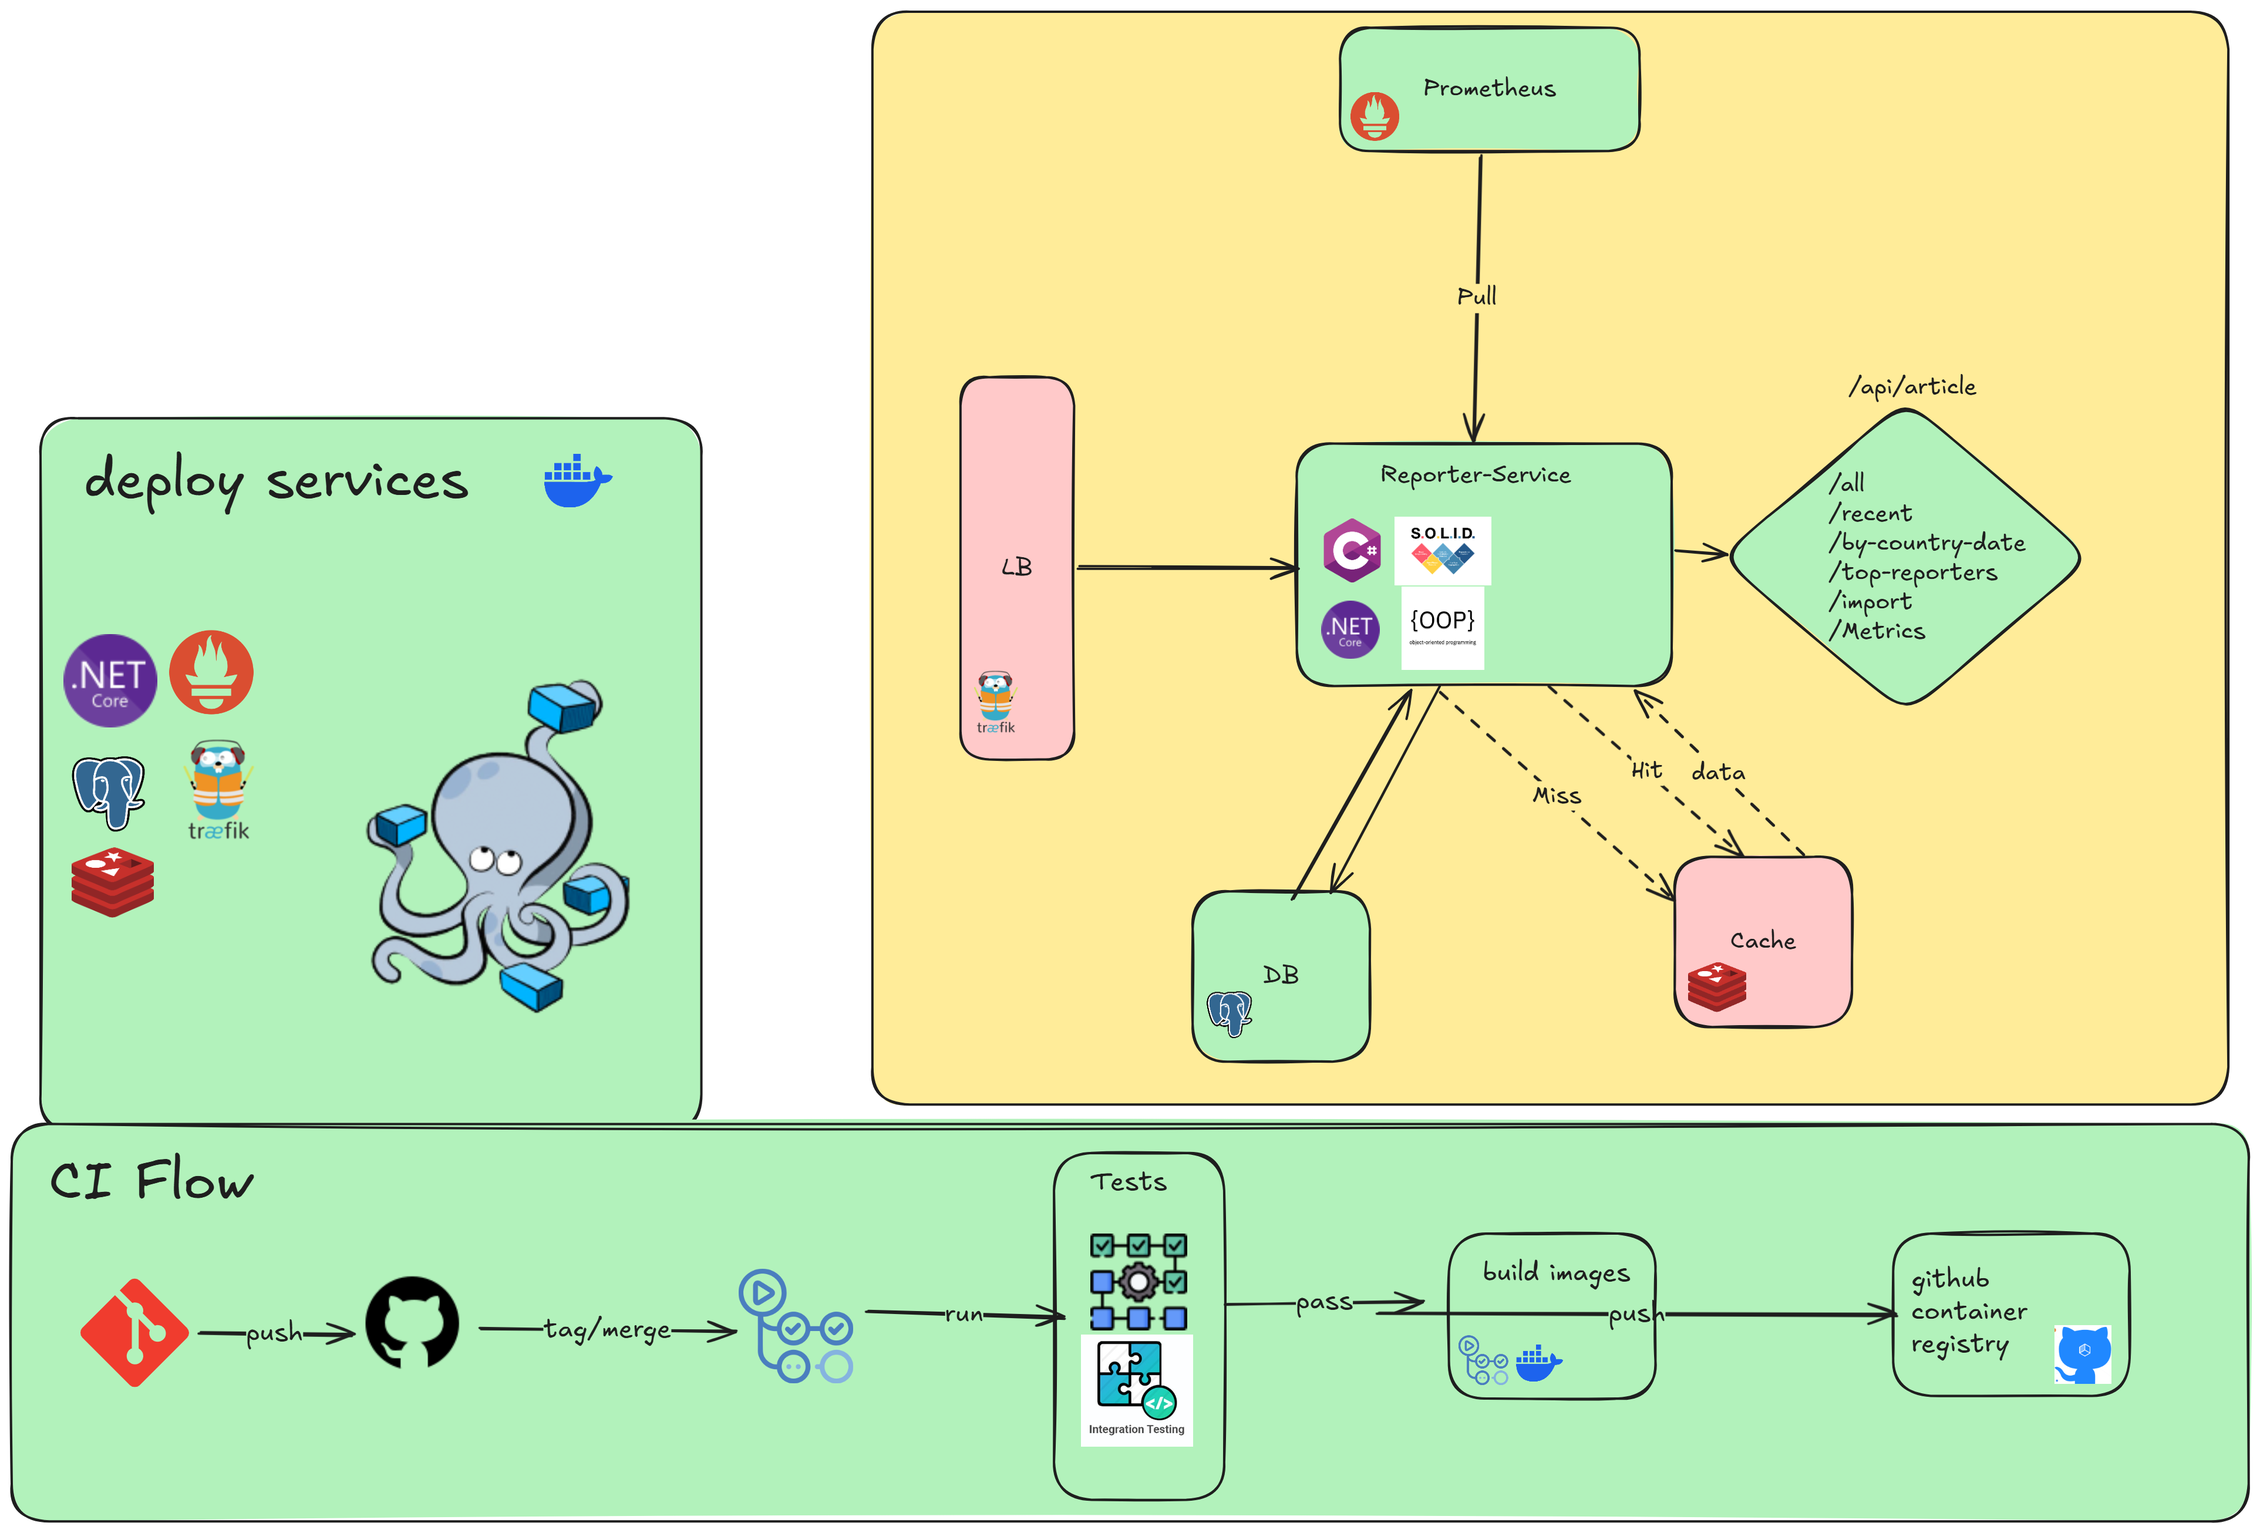
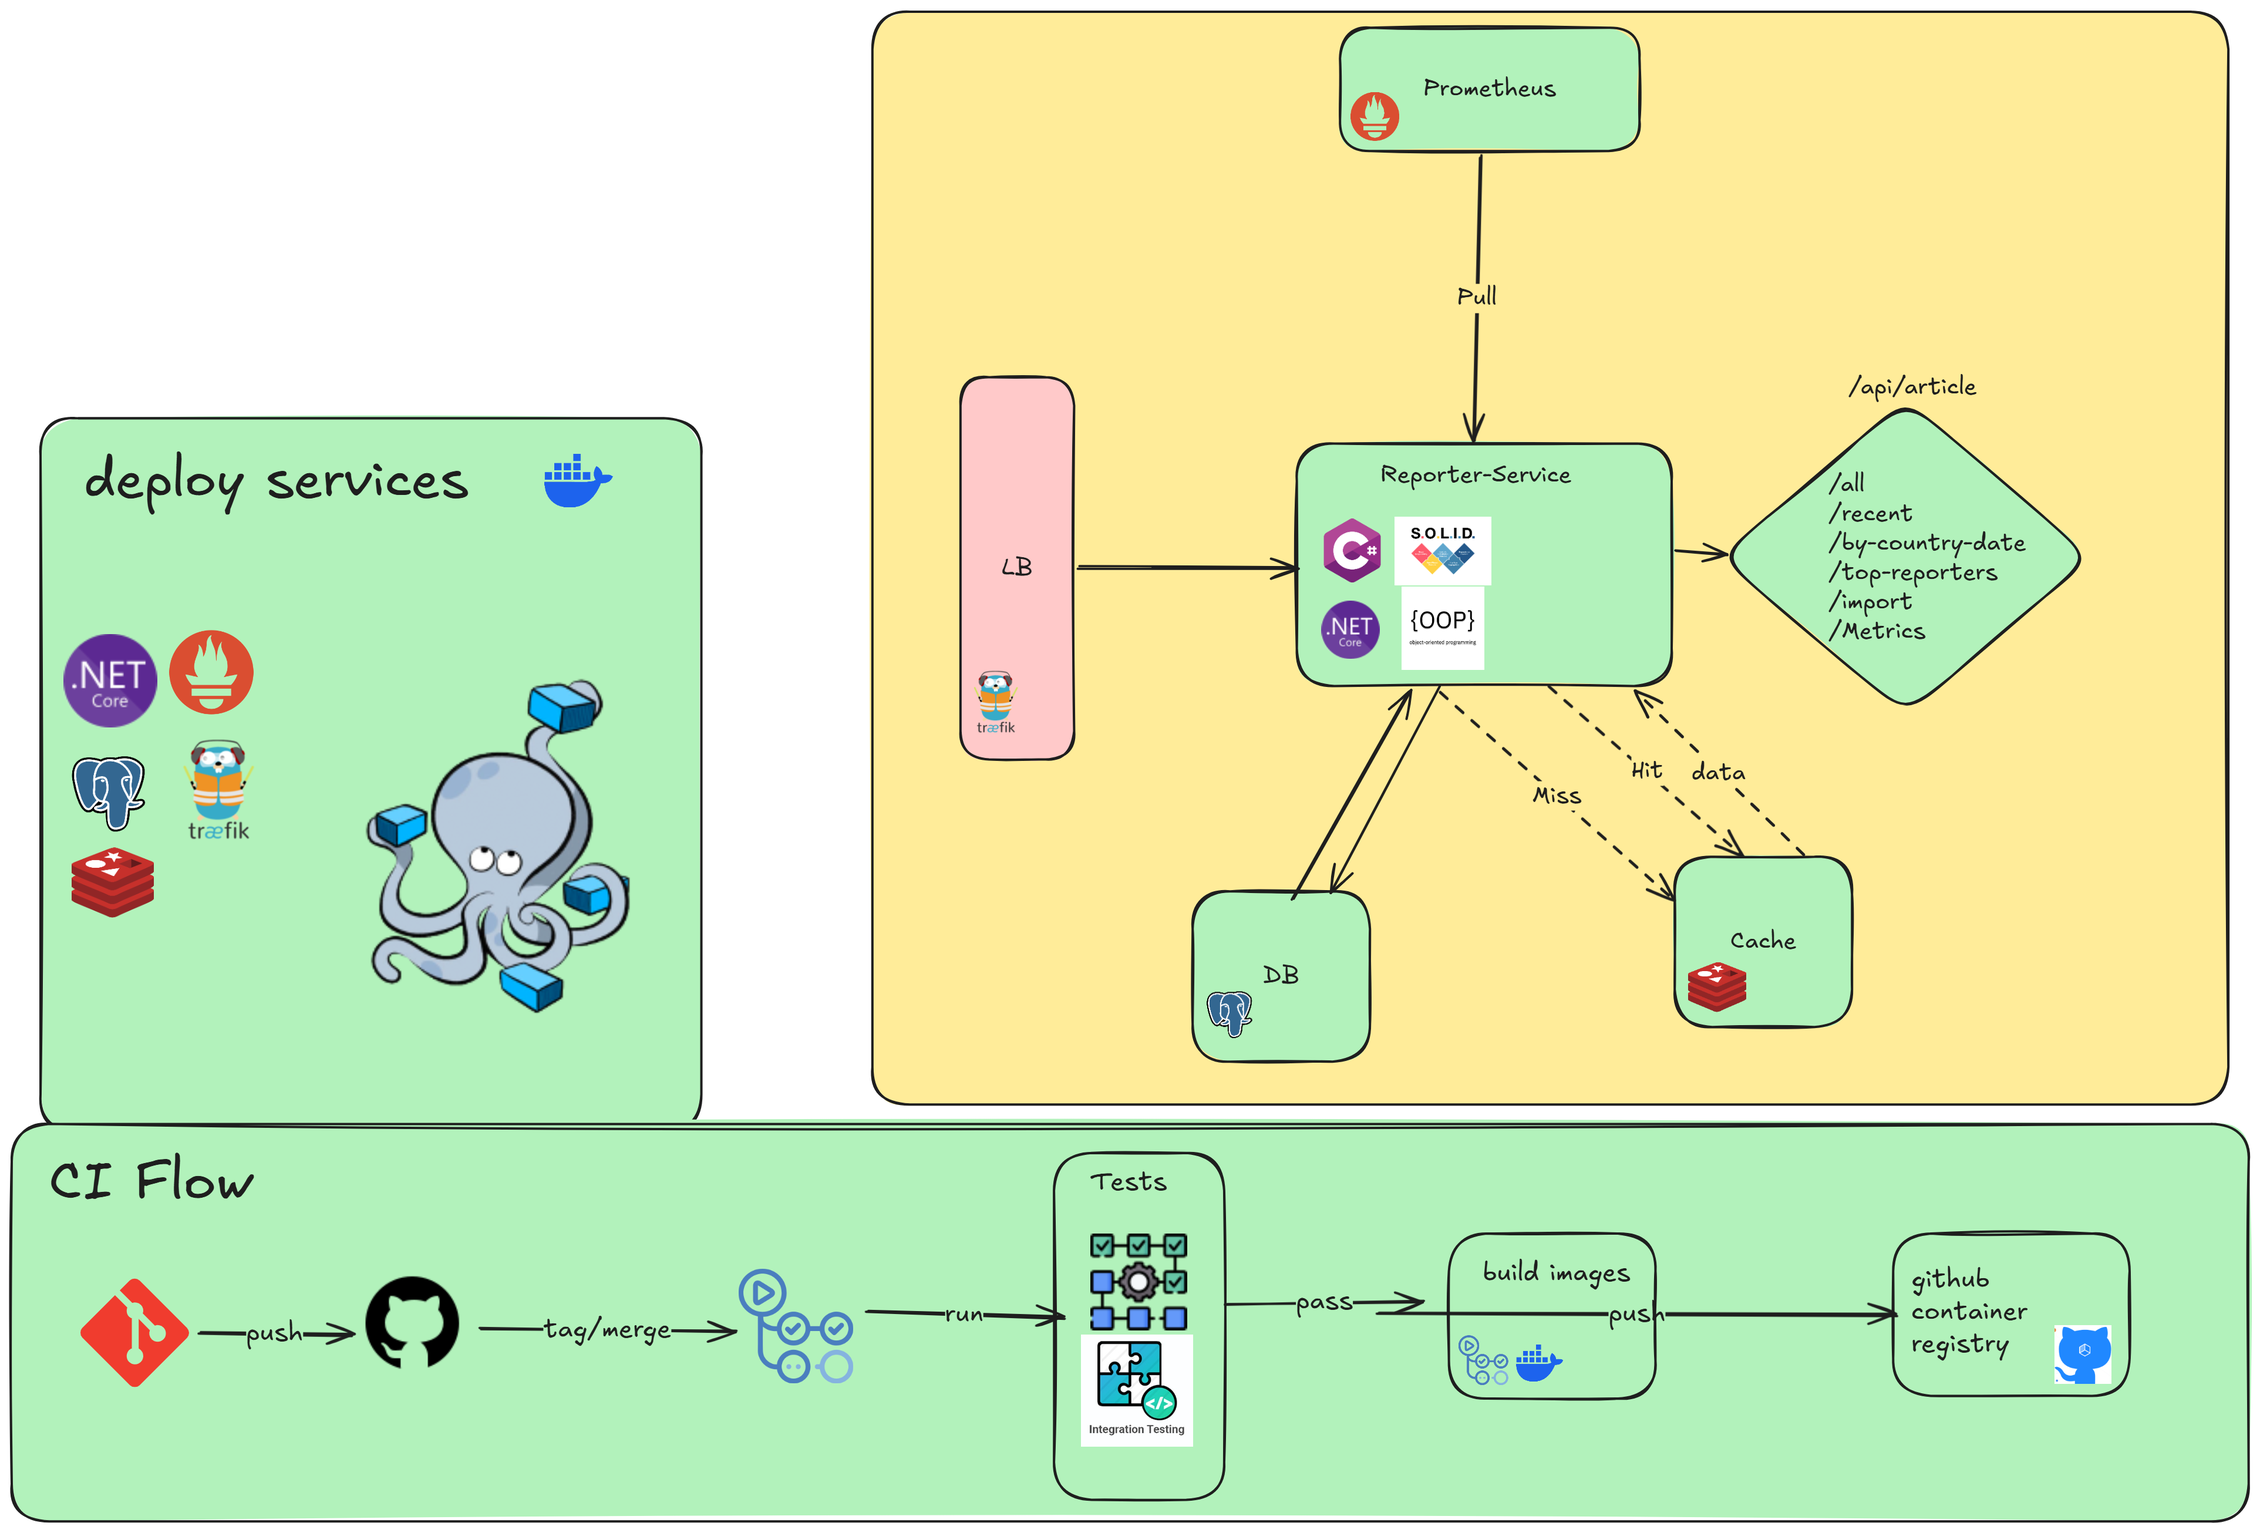
feat(cache): added cache

Changed region(s): [[0.7171, 0.5584, 0.8418, 0.6825]]

diff --git a/ReporterService.Tests/ArticleServiceTests.cs b/ReporterService.Tests/ArticleServiceTests.cs
@@ -8,6 +8,8 @@ using Moq;
 using Microsoft.AspNetCore.Http;
 using System.Text;
 using System.Linq;
+using Microsoft.Extensions.Caching.Distributed;
+
 
 public class ArticleServiceTests
 {
@@ -15,7 +17,7 @@ public class ArticleServiceTests
     public async Task ImportFromCsvAsync_ShouldImportArticleWithReporter()
     {
         var context = TestHelpers.CreateInMemoryDbContext();
-        var service = new ArticleService(context);
+        var service = TestHelpers.CreateArticleServiceWithCache(context);
 
         string csv = "RowNumber,Title,Category,Content,Date,Reporter,Country,PriortyNumber\n" +
                      "1,News Title,Politics,Some text,2025-06-29,Ali Rezaei,Iran,1";
@@ -35,7 +37,7 @@ public class ArticleServiceTests
     public async Task ImportFromCsvAsync_ShouldNotFailOnEmptyCsv()
     {
         var context = TestHelpers.CreateInMemoryDbContext();
-        var service = new ArticleService(context);
+        var service = TestHelpers.CreateArticleServiceWithCache(context);
 
         var csv = "RowNumber,Title,Category,Content,Date,Reporter,Country,PriortyNumber\n";
         var fileMock = new Mock<IFormFile>();
@@ -55,21 +57,27 @@ public class ArticleServiceTests
         var context = TestHelpers.CreateInMemoryDbContext();
         var reporter = new Reporter
         {
-            FirstName = "Ali", LastName = "Rezaei",
-            Email = "test@test.com", Phone = "000", HireDate = DateTime.Now, Bio = "Test"
+            FirstName = "Ali",
+            LastName = "Rezaei",
+            Email = "test@test.com",
+            Phone = "000",
+            HireDate = DateTime.Now,
+            Bio = "Test"
         };
         context.Reporters.Add(reporter);
         context.SaveChanges();
 
         context.Articles.Add(new Article
         {
-            Title = "A", Summary = "S", Content = "Iran",
+            Title = "A",
+            Summary = "S",
+            Content = "Iran",
             PublishDate = new DateTime(2025, 6, 29),
             ReporterId = reporter.Id
         });
         await context.SaveChangesAsync();
 
-        var service = new ArticleService(context);
+        var service = TestHelpers.CreateArticleServiceWithCache(context);
         var result = await service.GetTopReportersByArticleCountAsync(2025);
         Assert.Single(result);
         Assert.Equal(1, result.First().Item2);
@@ -79,7 +87,7 @@ public class ArticleServiceTests
     public async Task GetAllArticlesAsync_ReturnsAllArticlesOrderedByDate()
     {
         var context = TestHelpers.CreateInMemoryDbContext();
-        var reporter = new Reporter { FirstName = "Ali", LastName = "Rezaei",Bio="X", Email="test@gmai.com", Phone="-" };
+        var reporter = new Reporter { FirstName = "Ali", LastName = "Rezaei", Bio = "X", Email = "test@gmai.com", Phone = "-" };
         context.Reporters.Add(reporter);
         context.Articles.AddRange(
             new Article { Title = "A", Content = "X", Summary = "S", PublishDate = new DateTime(2025, 6, 28), Reporter = reporter },
@@ -87,18 +95,18 @@ public class ArticleServiceTests
         );
         await context.SaveChangesAsync();
 
-        var service = new ArticleService(context);
+        var service = TestHelpers.CreateArticleServiceWithCache(context);
         var result = await service.GetAllArticlesAsync();
 
         Assert.Equal(2, result.Count);
-        Assert.Equal("B", result[0].Title); 
+        Assert.Equal("B", result[0].Title);
     }
 
     [Fact]
     public async Task GetArticlesByCountryAndDateAsync_ReturnsMatchingArticles()
     {
         var context = TestHelpers.CreateInMemoryDbContext();
-        var reporter = new Reporter { FirstName = "Sara", LastName = "Ahmadi" ,Bio="X", Email="test@gmai.com", Phone="-" };
+        var reporter = new Reporter { FirstName = "Sara", LastName = "Ahmadi", Bio = "X", Email = "test@gmai.com", Phone = "-" };
         context.Reporters.Add(reporter);
         context.Articles.Add(new Article
         {
@@ -118,7 +126,7 @@ public class ArticleServiceTests
         });
         await context.SaveChangesAsync();
 
-        var service = new ArticleService(context);
+        var service = TestHelpers.CreateArticleServiceWithCache(context);
         var result = await service.GetArticlesByCountryAndDateAsync("Iran", new DateTime(2025, 6, 29));
 
         Assert.Single(result);
@@ -129,7 +137,7 @@ public class ArticleServiceTests
     public async Task GetRecentArticlesAsync_ReturnsArticlesWithinDays()
     {
         var context = TestHelpers.CreateInMemoryDbContext();
-        var reporter = new Reporter { FirstName = "John", LastName = "Smith" ,Bio="X", Email="test@gmai.com", Phone="-" };
+        var reporter = new Reporter { FirstName = "John", LastName = "Smith", Bio = "X", Email = "test@gmai.com", Phone = "-" };
         context.Reporters.Add(reporter);
         var now = DateTime.UtcNow.Date;
 
@@ -153,10 +161,62 @@ public class ArticleServiceTests
 
         await context.SaveChangesAsync();
 
-        var service = new ArticleService(context);
+        var service = TestHelpers.CreateArticleServiceWithCache(context);
         var result = await service.GetRecentArticlesAsync(2);
 
         Assert.Single(result);
         Assert.Equal("Recent", result[0].Title);
+    }
+    
+    [Fact]
+    public async Task GetAllArticlesAsync_ReturnsFromCache_WhenCacheIsHit()
+    {
+        var context = TestHelpers.CreateInMemoryDbContext();
+        var cacheMock = new Mock<IDistributedCache>();
+
+        // Simulate empty cached article list (encoded JSON array)
+        string cachedJson = "[]";
+        var cacheBytes = Encoding.UTF8.GetBytes(cachedJson);
+
+        cacheMock.Setup(c => c.GetAsync("all_articles", default))
+                .ReturnsAsync(cacheBytes);
+
+        var service = TestHelpers.CreateArticleServiceWithCache(context, cacheMock);
+        var result = await service.GetAllArticlesAsync();
+
+        Assert.NotNull(result);
+        Assert.Empty(result); // Because we cached an empty list
+    }
+
+    [Fact]
+    public async Task GetRecentArticlesAsync_CacheMiss_StoresResultInCache()
+    {
+        var context = TestHelpers.CreateInMemoryDbContext();
+        var reporter = new Reporter { FirstName = "Ali", LastName = "Rezaei", Bio = "Bio", Email = "email", Phone = "123" };
+        context.Reporters.Add(reporter);
+        context.Articles.Add(new Article
+        {
+            Title = "Today",
+            Content = "Content",
+            Summary = "Summary",
+            PublishDate = DateTime.UtcNow.Date,
+            Reporter = reporter
+        });
+        await context.SaveChangesAsync();
+
+        var cacheMock = new Mock<IDistributedCache>();
+        cacheMock.Setup(c => c.GetAsync(It.IsAny<string>(), default))
+                .ReturnsAsync((byte[])null); // Simulate cache miss
+
+        var service = TestHelpers.CreateArticleServiceWithCache(context, cacheMock);
+        var result = await service.GetRecentArticlesAsync(1);
+
+        Assert.Single(result);
+        Assert.Equal("Today", result[0].Title);
+        cacheMock.Verify(c => c.SetAsync(
+            It.Is<string>(s => s.StartsWith("recent_articles_")),
+            It.IsAny<byte[]>(),
+            It.IsAny<DistributedCacheEntryOptions>(),
+            default), Times.Once);
     }
 }

diff --git a/Services/ArticleService.cs b/Services/ArticleService.cs
@@ -4,20 +4,44 @@ using Microsoft.EntityFrameworkCore;
 using ReporterService.Models;
 using ReporterService.Data;
 using Prometheus;
-
+using Microsoft.Extensions.Caching.Distributed;
 
 namespace ReporterService.Services
 {
     public class ArticleService : IArticleService
     {
         private readonly AppDbContext _context;
+        private readonly IDistributedCache _cache;
 
-        public ArticleService(AppDbContext context) => _context = context;
+        public ArticleService(AppDbContext context, IDistributedCache cache)
+        {
+            _context = context;
+            _cache = cache;
+        }
 
-        public async Task<List<Article>> GetAllArticlesAsync() =>
-        await _context.Articles.Include(a => a.Reporter)
-            .OrderByDescending(a => a.PublishDate)
-            .ToListAsync();
+        public async Task<List<Article>> GetAllArticlesAsync()
+        {
+            var cacheKey = "all_articles";
+            var cached = await _cache.GetStringAsync(cacheKey);
+            if (!string.IsNullOrEmpty(cached))
+            {
+                MetricsRegistry.CacheHits.Inc();
+                return System.Text.Json.JsonSerializer.Deserialize<List<Article>>(cached)!;
+            }
+
+            var articles = await _context.Articles
+                .Include(a => a.Reporter)
+                .OrderByDescending(a => a.PublishDate)
+                .ToListAsync();
+
+            var serialized = System.Text.Json.JsonSerializer.Serialize(articles);
+            await _cache.SetStringAsync(cacheKey, serialized, new DistributedCacheEntryOptions
+            {
+                AbsoluteExpirationRelativeToNow = TimeSpan.FromMinutes(5)
+            });
+
+            return articles;
+        }
 
         public async Task<List<Article>> GetArticlesByCountryAndDateAsync(string country, DateTime date) =>
             await _context.Articles
@@ -26,12 +50,29 @@ namespace ReporterService.Services
             .ToListAsync();
         public async Task<List<Article>> GetRecentArticlesAsync(int days)
         {
+            var cacheKey = $"recent_articles_{days}";
+            var cached = await _cache.GetStringAsync(cacheKey);
+            if (!string.IsNullOrEmpty(cached))
+            {
+                MetricsRegistry.CacheHits.Inc();
+                return System.Text.Json.JsonSerializer.Deserialize<List<Article>>(cached)!;
+            }
+
             var threshold = DateTime.UtcNow.AddDays(-days).Date;
-            return await _context.Articles
+
+            var articles = await _context.Articles
                 .Where(a => a.PublishDate.Date >= threshold)
                 .Include(a => a.Reporter)
                 .OrderByDescending(a => a.PublishDate)
                 .ToListAsync();
+
+            var serialized = System.Text.Json.JsonSerializer.Serialize(articles);
+            await _cache.SetStringAsync(cacheKey, serialized, new DistributedCacheEntryOptions
+            {
+                AbsoluteExpirationRelativeToNow = TimeSpan.FromMinutes(5)
+            });
+
+            return articles;
         }
 
         public async Task<List<(Reporter, int)>> GetTopReportersByArticleCountAsync(int year)
@@ -87,6 +128,8 @@ namespace ReporterService.Services
                 }
                 await _context.SaveChangesAsync();
             }
+            await _cache.RemoveAsync("all_articles");
+            await _cache.RemoveAsync($"recent_articles_1");
         }
     }
 }

diff --git a/Program.cs b/Program.cs
@@ -3,6 +3,8 @@ using ReporterService.Data;
 using ReporterService.Services;
 using Microsoft.OpenApi.Models;
 using Prometheus;
+using StackExchange.Redis;
+using Microsoft.Extensions.Caching.StackExchangeRedis;
 
 var builder = WebApplication.CreateBuilder(args);
 
@@ -18,7 +20,14 @@ builder.Services.AddSwaggerGen();
 var connectionString = Environment.GetEnvironmentVariable("POSTGRES_CONNECTION_STRING")
     ?? builder.Configuration.GetConnectionString("DefaultConnection")
     ?? throw new InvalidOperationException("No PostgreSQL connection string found.");
-    
+
+builder.Services.AddStackExchangeRedisCache(options =>
+{
+    options.Configuration = builder.Configuration.GetValue<string>("REDIS_CONNECTION_STRING")
+                            ?? Environment.GetEnvironmentVariable("REDIS_CONNECTION_STRING")
+                            ?? "localhost:6379"; 
+});
+
 builder.Services.AddDbContext<AppDbContext>(options =>
     options.UseNpgsql(connectionString));
 

diff --git a/Data/AppDbContextFactory.cs b/Data/AppDbContextFactory.cs
@@ -1,0 +1,19 @@
+using Microsoft.EntityFrameworkCore;
+using Microsoft.EntityFrameworkCore.Design;
+
+namespace ReporterService.Data
+{
+    public class AppDbContextFactory : IDesignTimeDbContextFactory<AppDbContext>
+    {
+        public AppDbContext CreateDbContext(string[] args)
+        {
+            var optionsBuilder = new DbContextOptionsBuilder<AppDbContext>();
+
+            var connectionString = Environment.GetEnvironmentVariable("POSTGRES_CONNECTION_STRING")
+                ?? "Host=localhost;Port=55432;Database=newsdb;Username=postgres;Password=1234";
+
+            optionsBuilder.UseNpgsql(connectionString);
+            return new AppDbContext(optionsBuilder.Options);
+        }
+    }
+}

diff --git a/ReporterService.Tests/TestHelpers.cs b/ReporterService.Tests/TestHelpers.cs
@@ -1,5 +1,8 @@
 using Microsoft.EntityFrameworkCore;
 using ReporterService.Data;
+using Microsoft.Extensions.Caching.Distributed;
+using ReporterService.Services;
+using Moq;
 
 public static class TestHelpers
 {
@@ -10,5 +13,9 @@ public static class TestHelpers
             .Options;
 
         return new AppDbContext(options);
+    }
+    public static ArticleService CreateArticleServiceWithCache(AppDbContext context, Mock<IDistributedCache> cacheMock = null)
+    {
+        return new ArticleService(context, cacheMock?.Object ?? new Mock<IDistributedCache>().Object);
     }
 }

diff --git a/Metrics/MetricsRegistry.cs b/Metrics/MetricsRegistry.cs
@@ -10,4 +10,5 @@ public static class MetricsRegistry
 
     public static readonly Histogram ImportDuration = Metrics
         .CreateHistogram("csv_import_duration_seconds", "Time taken to import articles from CSV");
+    public static readonly Counter CacheHits = Metrics.CreateCounter("total_cache_hits", "Total number of cache hits.");
 }
